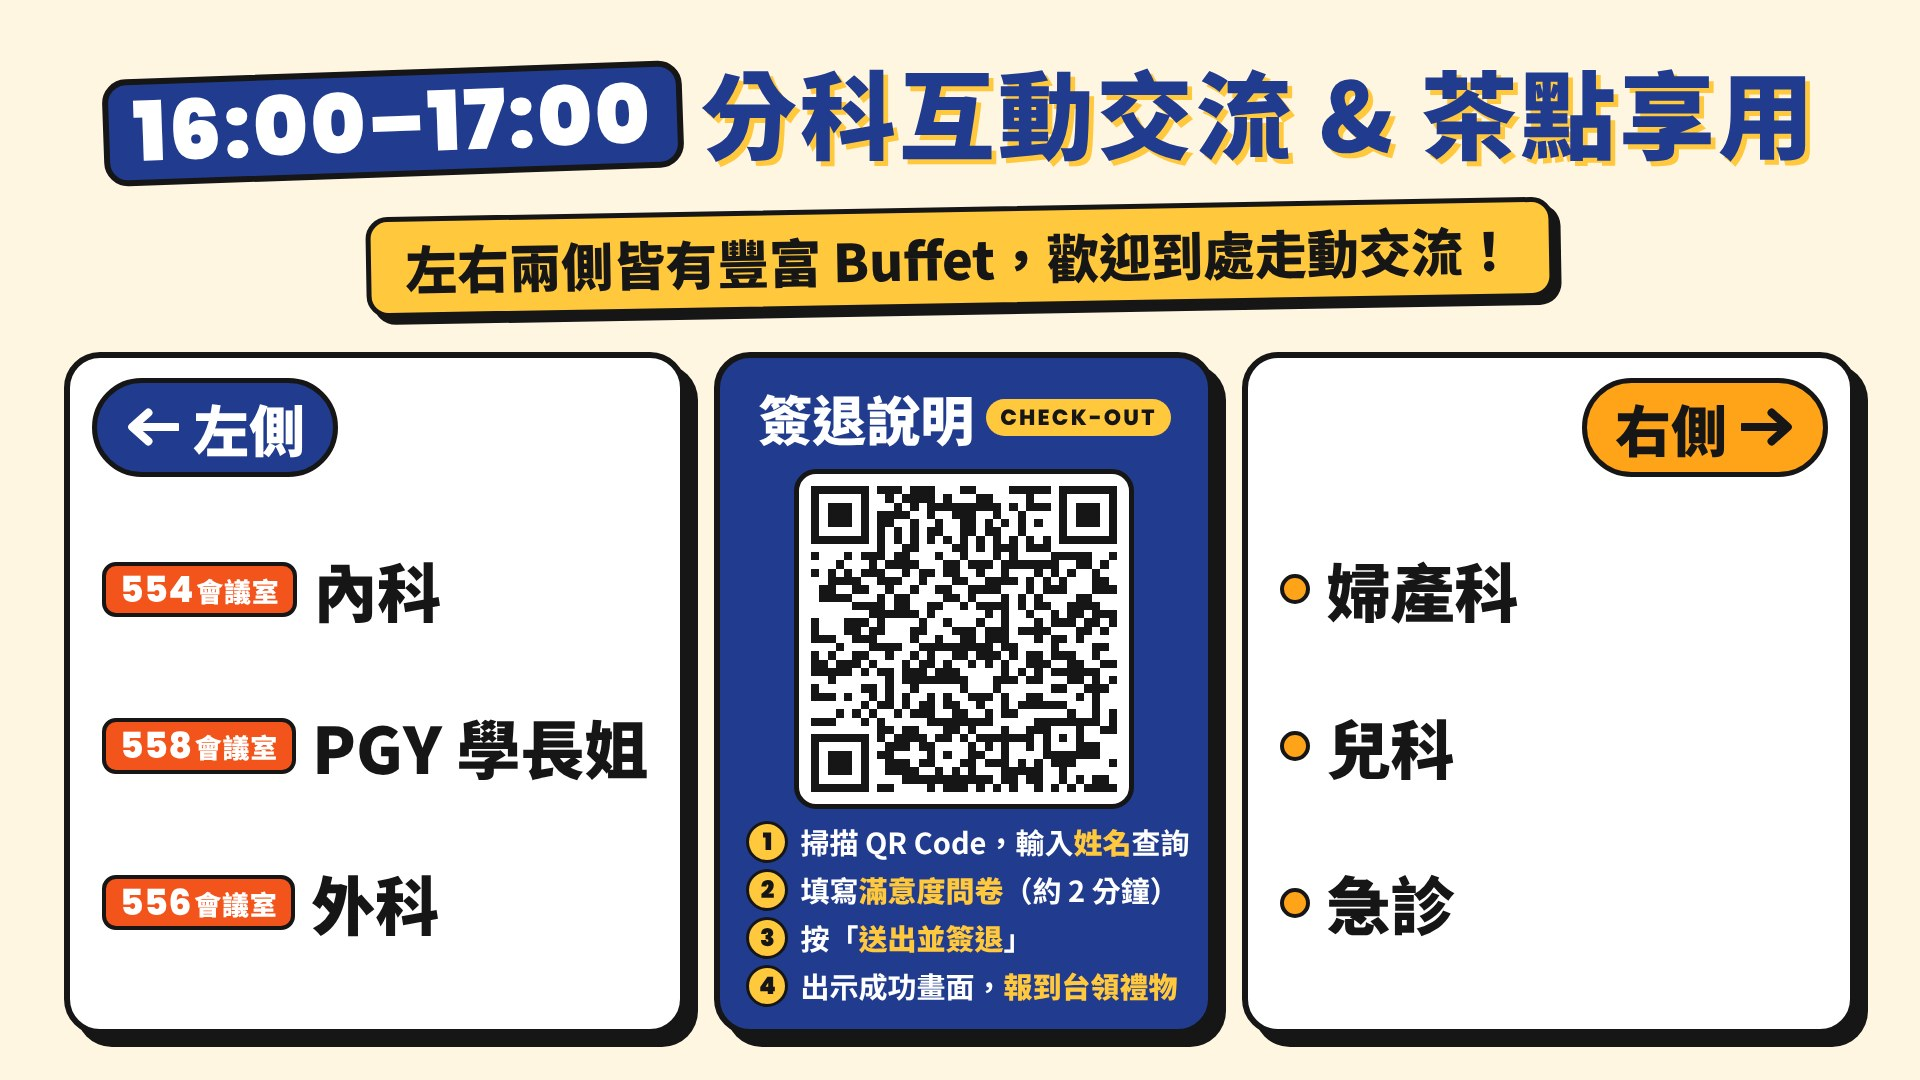
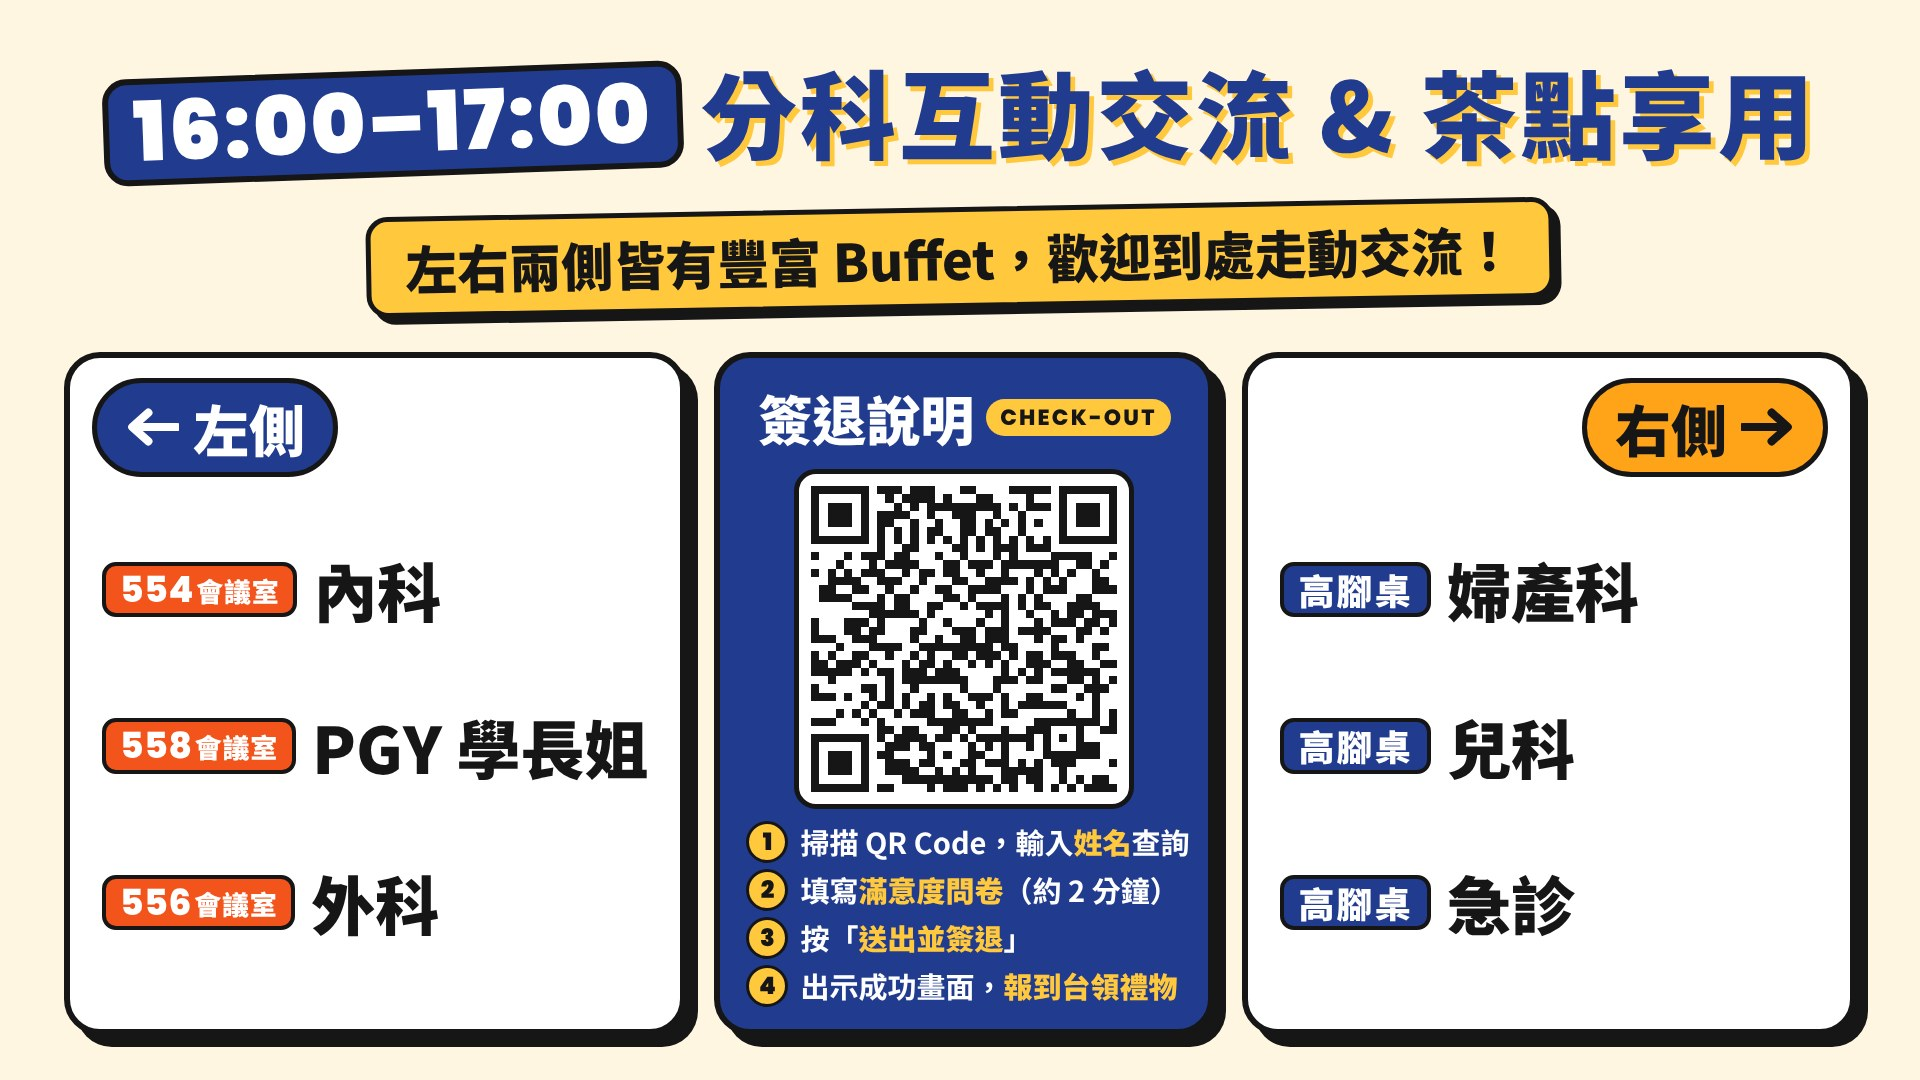
歌詞頁照片：右側婦產科／兒科／急診加上「高腳桌」標籤
Claude-Session: https://claude.ai/code/session_01HH3Uic7B7GKvdUspcu4Pwt

Changed region(s): [[0.6562, 0.7944, 0.8438, 0.8861], [0.6562, 0.6417, 0.8438, 0.7333], [0.6562, 0.5194, 0.875, 0.5806]]

diff --git a/cmh_musiccc/photos/slides.html b/cmh_musiccc/photos/slides.html
@@ -35,6 +35,7 @@ h1 b{font-family:Poppins;font-weight:900}
 .side h3 svg{width:54px;height:40px}
 .room{display:flex;align-items:center;gap:20px;font-size:52px;font-weight:900;line-height:1.2}
 .room .no{flex:none;font-family:Poppins;font-weight:800;font-size:32px;color:#fff;background:var(--red);border:4px solid var(--ink);border-radius:14px;padding:2px 14px;letter-spacing:.02em}
+.room .no.hk{font-family:"Noto Sans TC";font-weight:900;background:var(--navy);letter-spacing:.06em}
 .room .no small{font-family:"Noto Sans TC";font-size:.75em;margin-left:2px}
 .room .tag{flex:none;width:30px;height:30px;border-radius:50%;background:var(--orange);border:4px solid var(--ink)}
 /* slide 1 */
@@ -184,9 +185,9 @@ h1 b{font-family:Poppins;font-weight:900}
     <div class="side r">
       <h3><svg><use href="#arR"/></svg>右側</h3>
       <div class="list">
-      <div class="room"><span class="tag"></span>婦產科</div>
-      <div class="room"><span class="tag"></span>兒科</div>
-      <div class="room"><span class="tag"></span>急診</div>
+      <div class="room"><span class="no hk">高腳桌</span>婦產科</div>
+      <div class="room"><span class="no hk">高腳桌</span>兒科</div>
+      <div class="room"><span class="no hk">高腳桌</span>急診</div>
       </div>
     </div>
   </div>
@@ -220,9 +221,9 @@ h1 b{font-family:Poppins;font-weight:900}
     <div class="side r">
       <h3><svg><use href="#arR"/></svg>右側</h3>
       <div class="list">
-      <div class="room"><span class="tag"></span>婦產科</div>
-      <div class="room"><span class="tag"></span>兒科</div>
-      <div class="room"><span class="tag"></span>急診</div>
+      <div class="room"><span class="no hk">高腳桌</span>婦產科</div>
+      <div class="room"><span class="no hk">高腳桌</span>兒科</div>
+      <div class="room"><span class="no hk">高腳桌</span>急診</div>
       </div>
     </div>
   </div>
